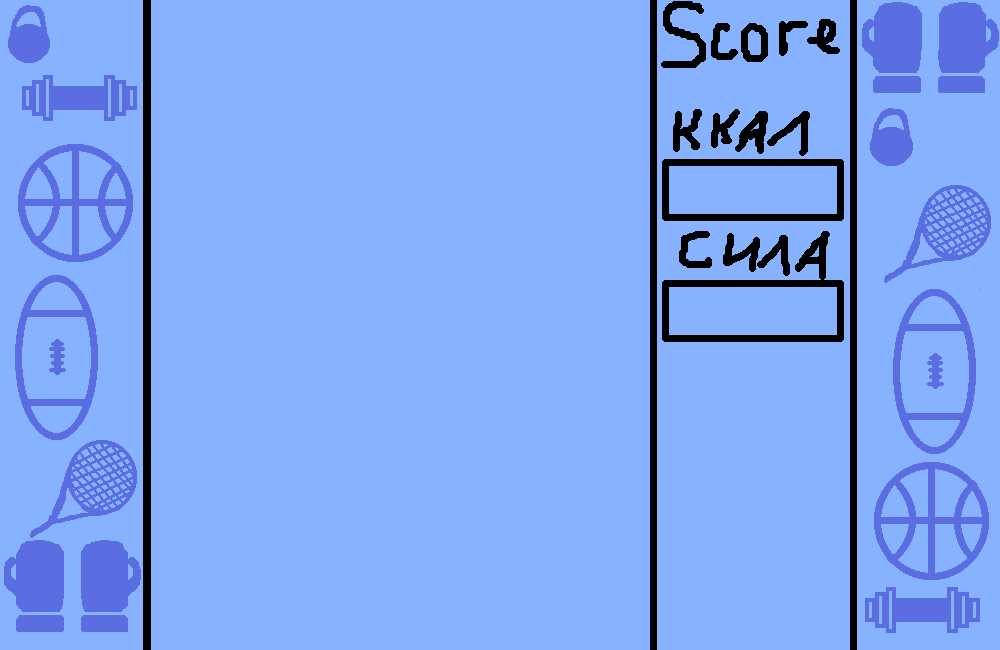
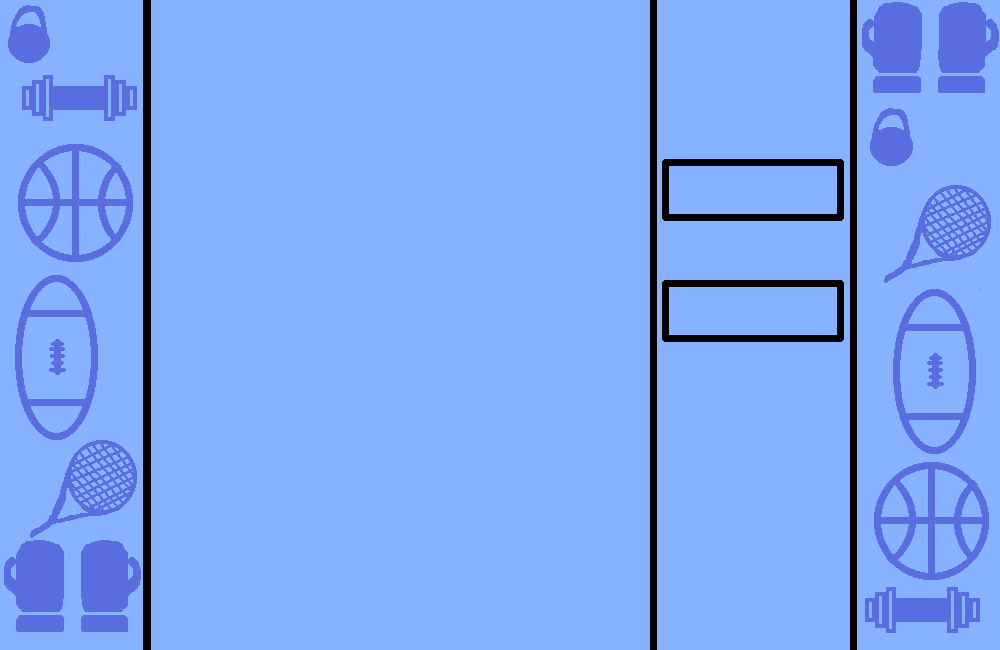
level select

Changed region(s): [[0.651, 0.0, 0.837, 0.1231], [0.651, 0.1538, 0.806, 0.2462], [0.682, 0.3385, 0.837, 0.4308]]

diff --git a/main.py b/main.py
@@ -3,7 +3,7 @@ from ball import Ball
 from random import randint
 
 pygame.init()
-
+lvl = 0
 pygame.time.set_timer(pygame.USEREVENT, 1000)
 second = 0
 blindness_stopin = 60
@@ -15,7 +15,9 @@ W, H = 1000, 650
 sc = pygame.display.set_mode((W, H))
 pygame.display.set_caption('STUPID JOCK')
 
-lvl = 0
+f = open('progress.txt', 'r', encoding='utf-8')
+progress = f.read().split()
+f.close()
 
 menu_bg = pygame.image.load('images/menu_bg.png')
 menu_bg = pygame.transform.scale(menu_bg, (1000, 650))
@@ -67,7 +69,7 @@ class Button:
         if x < mouse[0] < x + self.width and y < mouse[1] < y + self.height:
             pygame.draw.rect(sc, self.active_color, (x, y, self.width, self.height))
             for event in pygame.event.get():
-                if event.type == pygame.MOUSEBUTTONUP:
+                if event.type == pygame.MOUSEBUTTONDOWN:
                     if action is not None:
                         action()
         else:
@@ -76,7 +78,7 @@ class Button:
 
 
 def show_menu():
-    global menu_bg, bg, timer, health, calories_score, power_score
+    global menu_bg, bg, timer, health, calories_score, power_score, second
     show = True
 
     start_btn = Button(400, 100, (25, 130, 10), (20, 100, 10), font_size=75)
@@ -90,6 +92,7 @@ def show_menu():
         i.kill()
     bg = red_bg
     timer = 30
+    second = 0
 
     while show:
         for event in pygame.event.get():
@@ -100,7 +103,6 @@ def show_menu():
         start_btn.draw(x=300, y=200, message='start game', action=level_selection)
         quit_btn.draw(x=333, y=350, message='exit game', action=quit)
         pygame.display.update()
-        clock.tick(60)
 
 
 def level_selection():
@@ -110,6 +112,7 @@ def level_selection():
     level1_btn = Button(175, 75, (25, 130, 10), (20, 100, 10), font_size=50)
     level2_btn = Button(175, 75, (25, 130, 10), (20, 100, 10), font_size=50)
     level3_btn = Button(175, 75, (25, 130, 10), (20, 100, 10), font_size=50)
+    quit_btn = Button(115, 75, (25, 130, 10), (20, 100, 10), font_size=50)
 
     while show_level:
         for event in pygame.event.get():
@@ -117,11 +120,11 @@ def level_selection():
                 pygame.quit()
                 quit()
         sc.blit(menu_bg, ((0, 0), (1000, 650)))
-        level1_btn.draw(x=412, y=200, message='level1', action=start_level1())
-        level2_btn.draw(x=412, y=300, message='level2', action=start_level2())
-        level3_btn.draw(x=412, y=400, message='level3', action=start_level3())
+        level1_btn.draw(x=412, y=100, message='level1', action=start_level1)
+        level2_btn.draw(x=412, y=200, message='level2', action=start_level2)
+        level3_btn.draw(x=412, y=300, message='level3', action=start_level3)
+        quit_btn.draw(x=442, y=400, message='back', action=show_menu)
         pygame.display.update()
-        clock.tick(60)
 
 
 def start_level1():
@@ -131,21 +134,22 @@ def start_level1():
 
 
 def start_level2():
-    global lvl
-    lvl = 2
-    start_game()
+    global lvl, progress
+    if int(progress[0]) == 1:
+        lvl = 2
+        start_game()
 
 
 def start_level3():
-    global lvl
-    lvl = 3
-    start_game()
+    global lvl, progress
+    if int(progress[1]) == 1:
+        lvl = 3
+        start_game()
 
 
 def createEat(group):
     indx = randint(0, len(eats_surf) - 1)
     x = randint(165, 650 - 20)
-
     speed = randint(1, 4)
 
     return Ball(x, speed, eats_surf[indx], eats_data[indx]['score'], group)
@@ -154,7 +158,6 @@ def createEat(group):
 def createTraining_facil(group):
     indx = randint(0, len(training_facil_surf) - 1)
     x = randint(165, 650 - 20)
-
     speed = randint(1, 4)
 
     return Ball(x, speed, training_facil_surf[indx], training_facil_data[indx]['score'], group)
@@ -197,7 +200,7 @@ def print_text(mesage, x, y, font_color=(94, 138, 14), font_type='Fonts/Samson.t
 
 
 def game_over(bool):
-    global health, calories_score, eats, training_facils, power_score, bg, red_bg, timer
+    global health, calories_score, eats, training_facils, power_score, bg, red_bg, timer, second
     if bool:
         Pause()
     else:
@@ -211,6 +214,7 @@ def game_over(bool):
             i.kill()
         bg = red_bg
         timer = 30
+        second = 0
 
 
 pause = False
@@ -233,6 +237,57 @@ def Pause():
         clock.tick(20)
 
 
+def Win():
+    global health, calories_score, power_score, bg, timer, lvl, progress, second
+    win = True
+    if lvl == 1:
+        progress[0] = '1'
+        f = open('progress.txt', 'w', encoding='utf-8')
+        f.write('\n'.join(progress))
+        f.close()
+    elif lvl == 2:
+        progress[1] = '1'
+        f = open('progress.txt', 'w', encoding='utf-8')
+        f.write('\n'.join(progress))
+        f.close()
+    health = 3
+    calories_score = 0
+    power_score = 0
+    for i in eats:
+        i.kill()
+    for i in training_facils:
+        i.kill()
+    bg = red_bg
+    timer = 30
+    second = 0
+    while win:
+        print_text(mesage='you won', x=320, y=150)
+        if lvl < 3:
+            next_lvl_btn = Button(140, 50, (25, 130, 10), (20, 100, 10), font_size=30)
+            next_lvl_btn.draw(x=320, y=200, message='next lvl', action=next_lvl)
+
+        exit_to_menu_btn = Button(185, 50, (25, 130, 10), (20, 100, 10), font_size=30)
+        exit_to_menu_btn.draw(x=300, y=275, message='exit to menu', action=show_menu)
+
+        for event in pygame.event.get():
+            if event.type == pygame.QUIT:
+                exit()
+        pygame.display.update()
+        clock.tick(20)
+
+
+def next_lvl():
+    global lvl, progress
+    if lvl == 1:
+        if int(progress[0]) == 1:
+            lvl += 1
+            start_game()
+    elif lvl == 2:
+        if int(progress[1]) == 1:
+            lvl += 1
+            start_game()
+
+
 def stop_pause():
     global pause
     pause = False
@@ -243,7 +298,7 @@ def show_health():
     x = 680
     show = 0
     while health != show:
-        sc.blit(health_img, (x, 360))
+        sc.blit(health_img, (x, 600))
         x += 45
         show += 1
 
@@ -258,12 +313,12 @@ def check_health():
 
 
 def start_game():
-    global second, timer, drop_ball, drop_ball2, bg, blindness_stopin, animCount, eating, eating_start
+    global second, timer, drop_ball, drop_ball2, bg, blindness_stopin, animCount, eating, eating_start, lvl
     while True:
         for event in pygame.event.get():
             if event.type == pygame.QUIT:
                 exit()
-            elif event.type == pygame.USEREVENT:
+            if event.type == pygame.USEREVENT:
                 second += 1
                 timer -= 1
                 drop_ball = True
@@ -302,20 +357,21 @@ def start_game():
         if second % 30 == 0 and second > 0 and bg == red_bg:
             blindness_stopin -= 1
             print(blindness_stopin)
-            if blindness_stopin == 1:
+            if blindness_stopin == 4:
                 bg = blue_bg
                 blindness_stopin = 60
                 timer = 30
+                second = 0
         elif second % 30 == 0 and second > 0 and bg == blue_bg:
             blindness_stopin -= 1
             print(blindness_stopin)
-            if blindness_stopin == 1:
+            if blindness_stopin == 4:
                 bg = red_bg
                 blindness_stopin = 60
                 timer = 30
-
+                second = 0
         if calories_score < 0:
-            game_over(True)
+            game_over(bool=False)
 
         sc.blit(bg, (0, 0))
         eats.draw(sc)
@@ -331,6 +387,19 @@ def start_game():
         elif eating_start:
             sc.blit(eating[animCount // 6], t_rect)
             animCount += 1
+        print_text(mesage='level' + str(lvl), x=160, y=15)
+        print_text(mesage='power:', x=670, y=230, font_size=50, font_color=(0, 0, 0))
+        print_text(mesage='kcal:', x=670, y=105, font_size=50, font_color=(0, 0, 0))
+        print_text(mesage='SCORE', x=660, y=15, font_size=75, font_color=(0, 0, 0))
+        print_text(mesage='mission', x=670, y=360, font_size=50, font_color=(0, 0, 0))
+        if lvl == 1:
+            print_text(mesage='kcal-2500', x=670, y=410, font_size=30)
+        if lvl == 2:
+            print_text(mesage='power-2500', x=670, y=410, font_size=30)
+        if lvl == 3:
+            print_text(mesage='kcal-1000', x=670, y=410, font_size=30)
+            print_text(mesage='power-2500', x=670, y=440, font_size=30)
+
 
         show_health()
         pygame.display.update()
@@ -342,7 +411,13 @@ def start_game():
         collideeats()
         collideTraining_facils()
 
+        if lvl == 1 and calories_score >= 2500:
+            Win()
+        elif lvl == 2 and power_score >= 2500:
+            Win()
+        elif lvl == 3 and calories_score >= 1000 and power_score >= 2500:
+            Win()
+
 
 show_menu()
-sc.blit((0, 0, 0))
 start_game()
